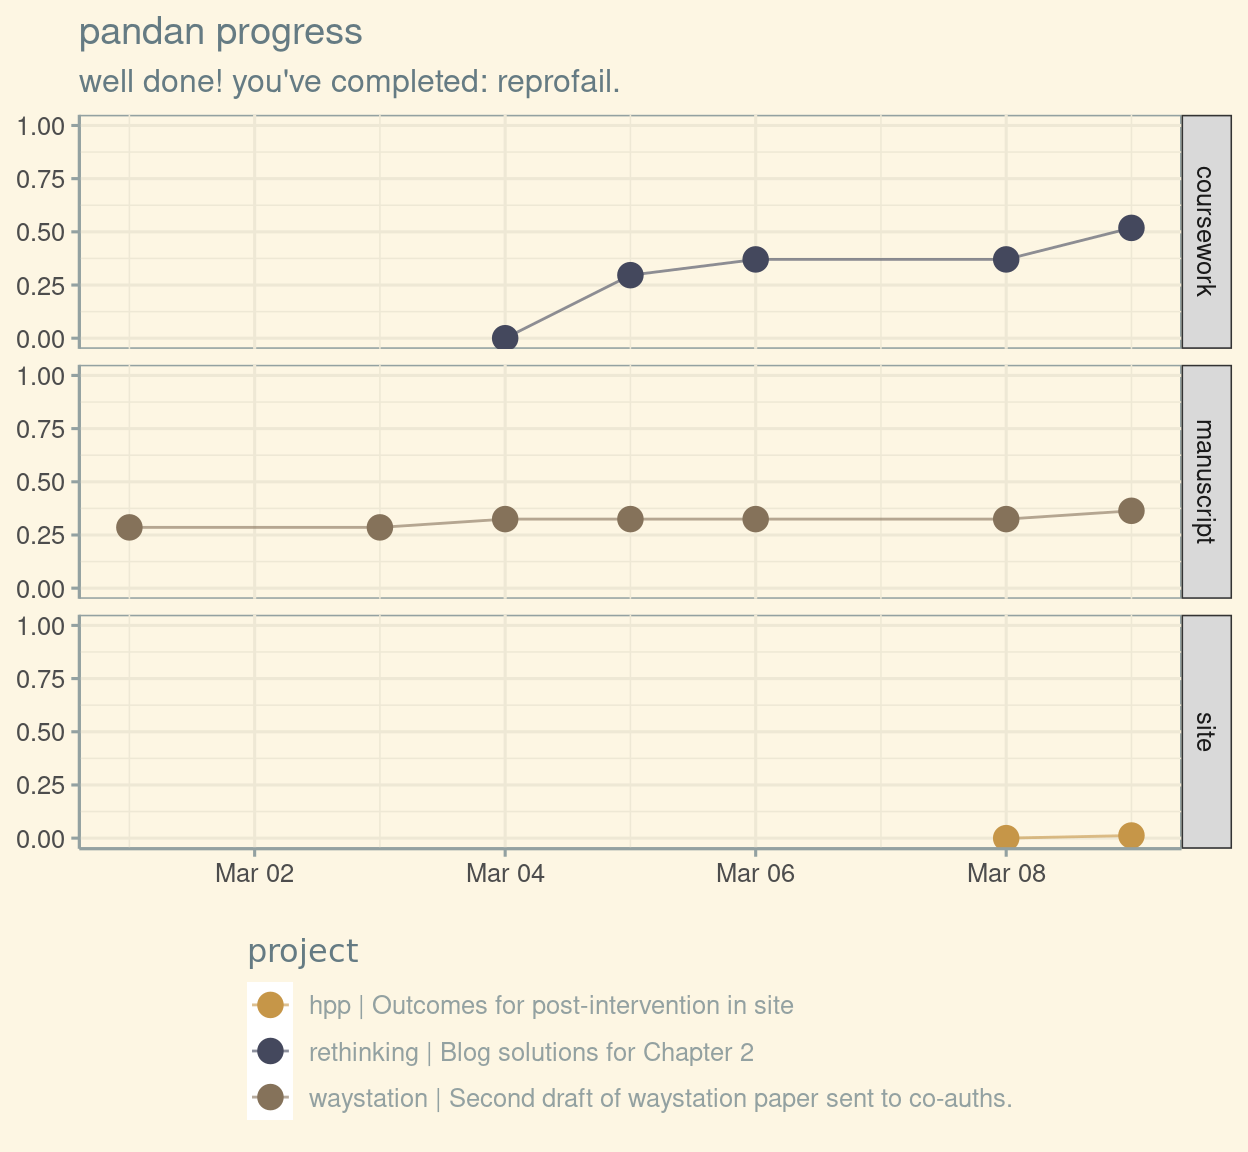
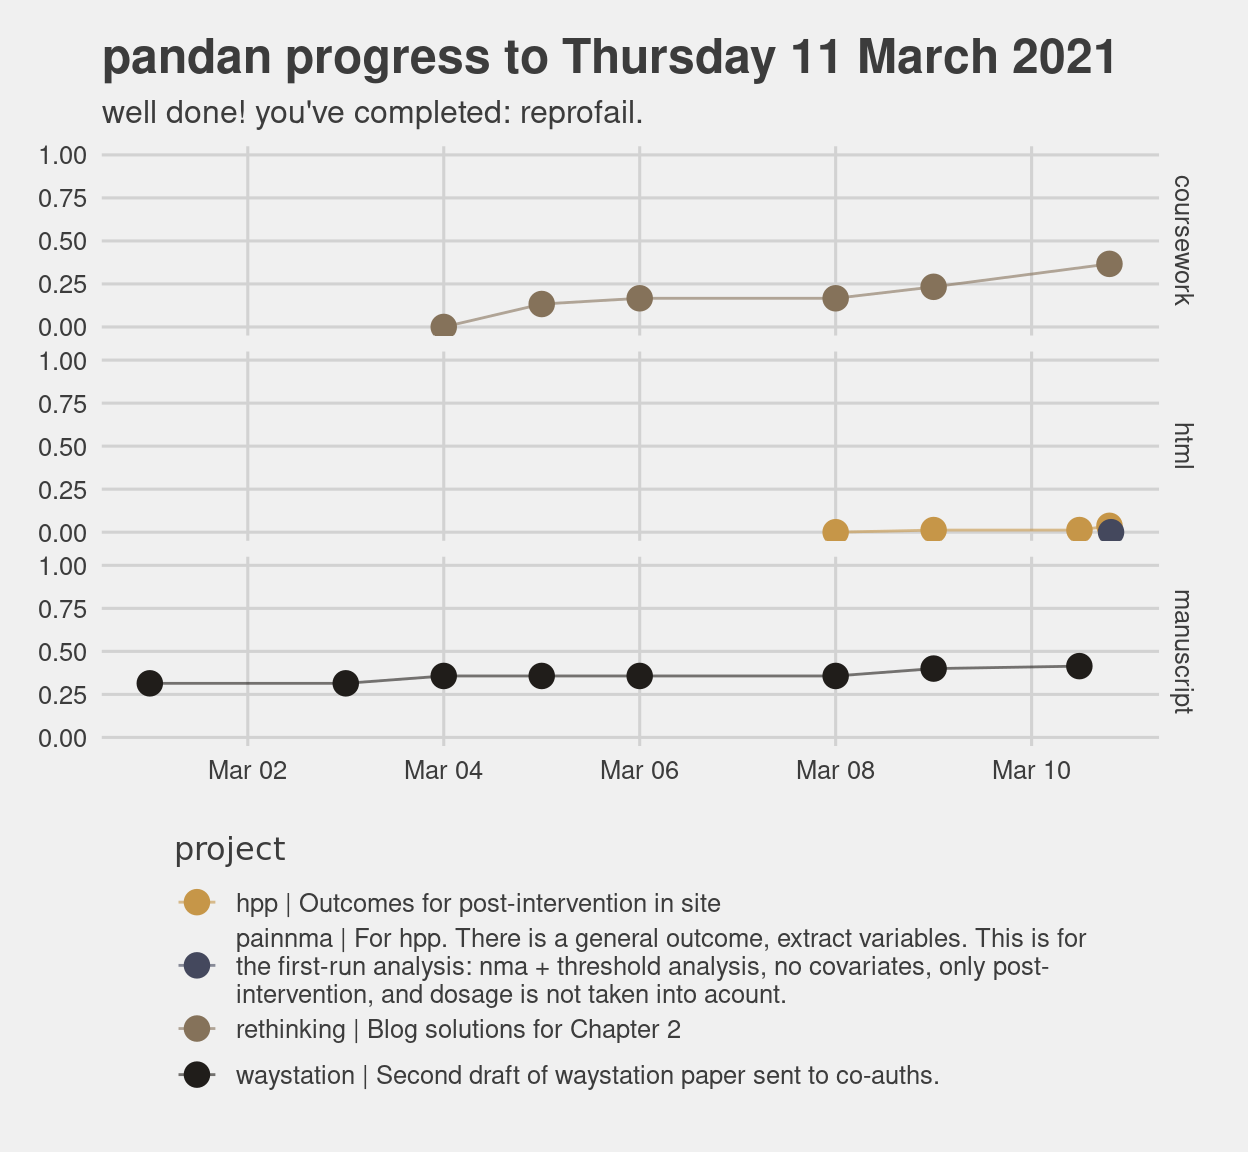
dontpanic auto update

Changed region(s): [[0.0312, 0.0, 1.0, 0.9688]]

diff --git a/docs/writeflow.html b/docs/writeflow.html
@@ -91,8 +91,8 @@ code span.wa { color: #5e5e5e; font-style: italic; } /* Warning */
 
 
   <!--  https://schema.org/Article -->
-  <meta property="article:published" itemprop="datePublished" content="2021-03-10"/>
-  <meta property="article:created" itemprop="dateCreated" content="2021-03-10"/>
+  <meta property="article:published" itemprop="datePublished" content="2021-03-11"/>
+  <meta property="article:created" itemprop="dateCreated" content="2021-03-11"/>
   <meta name="article:author" content="Charles T. Gray"/>
 
   <!--  https://developers.facebook.com/docs/sharing/webmasters#markup -->
@@ -111,7 +111,7 @@ code span.wa { color: #5e5e5e; font-style: italic; } /* Warning */
   <!--radix_placeholder_rmarkdown_metadata-->
 
   <script type="text/json" id="radix-rmarkdown-metadata">
-  {"type":"list","attributes":{"names":{"type":"character","attributes":{},"value":["title","description","author","date","output"]}},"value":[{"type":"character","attributes":{},"value":["writeflow"]},{"type":"character","attributes":{},"value":["Workflow for writing across the manuscript.\n"]},{"type":"list","attributes":{},"value":[{"type":"list","attributes":{"names":{"type":"character","attributes":{},"value":["name","url"]}},"value":[{"type":"character","attributes":{},"value":["Charles T. Gray"]},{"type":"character","attributes":{},"value":["https://softloud.github.io/onetimetrophybitch/about.html"]}]}]},{"type":"character","attributes":{},"value":["updated: 2021-03-10"]},{"type":"list","attributes":{"names":{"type":"character","attributes":{},"value":["distill::distill_article"]}},"value":[{"type":"list","attributes":{"names":{"type":"character","attributes":{},"value":["code_folding"]}},"value":[{"type":"character","attributes":{},"value":["hide"]}]}]}]}
+  {"type":"list","attributes":{"names":{"type":"character","attributes":{},"value":["title","description","author","date","output"]}},"value":[{"type":"character","attributes":{},"value":["writeflow"]},{"type":"character","attributes":{},"value":["Workflow for writing across the manuscript.\n"]},{"type":"list","attributes":{},"value":[{"type":"list","attributes":{"names":{"type":"character","attributes":{},"value":["name","url"]}},"value":[{"type":"character","attributes":{},"value":["Charles T. Gray"]},{"type":"character","attributes":{},"value":["https://softloud.github.io/onetimetrophybitch/about.html"]}]}]},{"type":"character","attributes":{},"value":["updated: 2021-03-11"]},{"type":"list","attributes":{"names":{"type":"character","attributes":{},"value":["distill::distill_article"]}},"value":[{"type":"list","attributes":{"names":{"type":"character","attributes":{},"value":["code_folding"]}},"value":[{"type":"character","attributes":{},"value":["hide"]}]}]}]}
   </script>
   <!--/radix_placeholder_rmarkdown_metadata-->
   <!--radix_placeholder_navigation_in_header-->
@@ -2036,7 +2036,7 @@ code span.wa { color: #5e5e5e; font-style: italic; } /* Warning */
   </script>
 
   <!--/radix_placeholder_distill-->
-  <script src="site_libs/header-attrs-2.6/header-attrs.js"></script>
+  <script src="site_libs/header-attrs-2.7/header-attrs.js"></script>
   <script src="site_libs/popper-2.6.0/popper.min.js"></script>
   <link href="site_libs/tippy-6.2.7/tippy.css" rel="stylesheet" />
   <link href="site_libs/tippy-6.2.7/tippy-light-border.css" rel="stylesheet" />
@@ -2056,7 +2056,7 @@ code span.wa { color: #5e5e5e; font-style: italic; } /* Warning */
 <!--radix_placeholder_front_matter-->
 
 <script id="distill-front-matter" type="text/json">
-{"title":"writeflow","description":"Workflow for writing across the manuscript.","authors":[{"author":"Charles T. Gray","authorURL":"https://softloud.github.io/onetimetrophybitch/about.html","affiliation":"&nbsp;","affiliationURL":"#","orcidID":""}],"publishedDate":"2021-03-10T00:00:00.000+00:00","citationText":"Gray, 2021"}
+{"title":"writeflow","description":"Workflow for writing across the manuscript.","authors":[{"author":"Charles T. Gray","authorURL":"https://softloud.github.io/onetimetrophybitch/about.html","affiliation":"&nbsp;","affiliationURL":"#","orcidID":""}],"publishedDate":"2021-03-11T00:00:00.000+00:00","citationText":"Gray, 2021"}
 </script>
 
 <!--/radix_placeholder_front_matter-->
@@ -2091,7 +2091,7 @@ code span.wa { color: #5e5e5e; font-style: italic; } /* Warning */
 <div class="d-byline">
   Charles T. Gray <a href="https://softloud.github.io/onetimetrophybitch/about.html" class="uri">https://softloud.github.io/onetimetrophybitch/about.html</a> 
   
-<br/>updated: 2021-03-10
+<br/>updated: 2021-03-11
 </div>
 
 <div class="d-article">

diff --git a/docs/instantiate.html b/docs/instantiate.html
@@ -91,8 +91,8 @@ code span.wa { color: #5e5e5e; font-style: italic; } /* Warning */
 
 
   <!--  https://schema.org/Article -->
-  <meta property="article:published" itemprop="datePublished" content="2021-03-10"/>
-  <meta property="article:created" itemprop="dateCreated" content="2021-03-10"/>
+  <meta property="article:published" itemprop="datePublished" content="2021-03-11"/>
+  <meta property="article:created" itemprop="dateCreated" content="2021-03-11"/>
 
   <!--  https://developers.facebook.com/docs/sharing/webmasters#markup -->
   <meta property="og:title" content="lifeswork: instantiate"/>
@@ -110,7 +110,7 @@ code span.wa { color: #5e5e5e; font-style: italic; } /* Warning */
   <!--radix_placeholder_rmarkdown_metadata-->
 
   <script type="text/json" id="radix-rmarkdown-metadata">
-  {"type":"list","attributes":{"names":{"type":"character","attributes":{},"value":["title","description","date","output"]}},"value":[{"type":"character","attributes":{},"value":["instantiate"]},{"type":"character","attributes":{},"value":["start the day\n"]},{"type":"character","attributes":{},"value":["updated 2021-03-10"]},{"type":"character","attributes":{},"value":["distill::distill_article"]}]}
+  {"type":"list","attributes":{"names":{"type":"character","attributes":{},"value":["title","description","date","output"]}},"value":[{"type":"character","attributes":{},"value":["instantiate"]},{"type":"character","attributes":{},"value":["start the day\n"]},{"type":"character","attributes":{},"value":["updated 2021-03-11"]},{"type":"character","attributes":{},"value":["distill::distill_article"]}]}
   </script>
   <!--/radix_placeholder_rmarkdown_metadata-->
   <!--radix_placeholder_navigation_in_header-->
@@ -2035,7 +2035,7 @@ code span.wa { color: #5e5e5e; font-style: italic; } /* Warning */
   </script>
 
   <!--/radix_placeholder_distill-->
-  <script src="site_libs/header-attrs-2.6/header-attrs.js"></script>
+  <script src="site_libs/header-attrs-2.7/header-attrs.js"></script>
   <script src="site_libs/kePrint-0.0.1/kePrint.js"></script>
   <link href="site_libs/lightable-0.0.1/lightable.css" rel="stylesheet" />
   <script src="site_libs/popper-2.6.0/popper.min.js"></script>
@@ -2057,7 +2057,7 @@ code span.wa { color: #5e5e5e; font-style: italic; } /* Warning */
 <!--radix_placeholder_front_matter-->
 
 <script id="distill-front-matter" type="text/json">
-{"title":"instantiate","description":"start the day","authors":[],"publishedDate":"2021-03-10T00:00:00.000+00:00"}
+{"title":"instantiate","description":"start the day","authors":[],"publishedDate":"2021-03-11T00:00:00.000+00:00"}
 </script>
 
 <!--/radix_placeholder_front_matter-->
@@ -2105,7 +2105,7 @@ code span.wa { color: #5e5e5e; font-style: italic; } /* Warning */
 <div class="layout-chunk" data-layout="l-body">
 <div class="sourceCode">
 <pre class="sourceCode r"><code class="sourceCode r"><span class='kw'><a href='https://rdrr.io/r/base/library.html'>library</a></span><span class='op'>(</span><span class='va'>pandan</span><span class='op'>)</span>
-<span class='fu'><a href='https://rdrr.io/pkg/pandan/man/pandan_view.html'>pandan_view</a></span><span class='op'>(</span><span class='op'>)</span>
+<span class='fu'><a href='https://rdrr.io/pkg/pandan/man/pandan_view.html'>pandan_view</a></span><span class='op'>(</span>distill<span class='op'>=</span><span class='cn'>TRUE</span><span class='op'>)</span>
 </code></pre>
 </div>
 <p><img src="instantiate_files/figure-html5/unnamed-chunk-1-1.png" width="624" /></p>

diff --git a/docs/dontpanic.html b/docs/dontpanic.html
@@ -90,8 +90,8 @@ code span.wa { color: #5e5e5e; font-style: italic; } /* Warning */
 
 
   <!--  https://schema.org/Article -->
-  <meta property="article:published" itemprop="datePublished" content="2021-03-10"/>
-  <meta property="article:created" itemprop="dateCreated" content="2021-03-10"/>
+  <meta property="article:published" itemprop="datePublished" content="2021-03-11"/>
+  <meta property="article:created" itemprop="dateCreated" content="2021-03-11"/>
 
   <!--  https://developers.facebook.com/docs/sharing/webmasters#markup -->
   <meta property="og:title" content="lifeswork: dontpanic"/>
@@ -107,7 +107,7 @@ code span.wa { color: #5e5e5e; font-style: italic; } /* Warning */
   <!--radix_placeholder_rmarkdown_metadata-->
 
   <script type="text/json" id="radix-rmarkdown-metadata">
-  {"type":"list","attributes":{"names":{"type":"character","attributes":{},"value":["title","date","output"]}},"value":[{"type":"character","attributes":{},"value":["dontpanic"]},{"type":"character","attributes":{},"value":["2021-03-10"]},{"type":"list","attributes":{"names":{"type":"character","attributes":{},"value":["distill::distill_article"]}},"value":[{"type":"list","attributes":{"names":{"type":"character","attributes":{},"value":["toc"]}},"value":[{"type":"logical","attributes":{},"value":[true]}]}]}]}
+  {"type":"list","attributes":{"names":{"type":"character","attributes":{},"value":["title","date","output"]}},"value":[{"type":"character","attributes":{},"value":["dontpanic"]},{"type":"character","attributes":{},"value":["2021-03-11"]},{"type":"list","attributes":{"names":{"type":"character","attributes":{},"value":["distill::distill_article"]}},"value":[{"type":"list","attributes":{"names":{"type":"character","attributes":{},"value":["toc"]}},"value":[{"type":"logical","attributes":{},"value":[true]}]}]}]}
   </script>
   <!--/radix_placeholder_rmarkdown_metadata-->
   <!--radix_placeholder_navigation_in_header-->
@@ -2032,7 +2032,7 @@ code span.wa { color: #5e5e5e; font-style: italic; } /* Warning */
   </script>
 
   <!--/radix_placeholder_distill-->
-  <script src="site_libs/header-attrs-2.6/header-attrs.js"></script>
+  <script src="site_libs/header-attrs-2.7/header-attrs.js"></script>
   <script src="site_libs/kePrint-0.0.1/kePrint.js"></script>
   <link href="site_libs/lightable-0.0.1/lightable.css" rel="stylesheet" />
   <script src="site_libs/popper-2.6.0/popper.min.js"></script>
@@ -2054,7 +2054,7 @@ code span.wa { color: #5e5e5e; font-style: italic; } /* Warning */
 <!--radix_placeholder_front_matter-->
 
 <script id="distill-front-matter" type="text/json">
-{"title":"dontpanic","authors":[],"publishedDate":"2021-03-10T00:00:00.000+00:00"}
+{"title":"dontpanic","authors":[],"publishedDate":"2021-03-11T00:00:00.000+00:00"}
 </script>
 
 <!--/radix_placeholder_front_matter-->

diff --git a/docs/tasks.html b/docs/tasks.html
@@ -90,8 +90,8 @@ code span.wa { color: #5e5e5e; font-style: italic; } /* Warning */
 
 
   <!--  https://schema.org/Article -->
-  <meta property="article:published" itemprop="datePublished" content="2021-03-10"/>
-  <meta property="article:created" itemprop="dateCreated" content="2021-03-10"/>
+  <meta property="article:published" itemprop="datePublished" content="2021-03-11"/>
+  <meta property="article:created" itemprop="dateCreated" content="2021-03-11"/>
 
   <!--  https://developers.facebook.com/docs/sharing/webmasters#markup -->
   <meta property="og:title" content="lifeswork: tasks"/>
@@ -107,7 +107,7 @@ code span.wa { color: #5e5e5e; font-style: italic; } /* Warning */
   <!--radix_placeholder_rmarkdown_metadata-->
 
   <script type="text/json" id="radix-rmarkdown-metadata">
-  {"type":"list","attributes":{"names":{"type":"character","attributes":{},"value":["title","date","output"]}},"value":[{"type":"character","attributes":{},"value":["tasks"]},{"type":"character","attributes":{},"value":["2021-03-10"]},{"type":"list","attributes":{"names":{"type":"character","attributes":{},"value":["distill::distill_article"]}},"value":[{"type":"list","attributes":{"names":{"type":"character","attributes":{},"value":["toc"]}},"value":[{"type":"logical","attributes":{},"value":[true]}]}]}]}
+  {"type":"list","attributes":{"names":{"type":"character","attributes":{},"value":["title","date","output"]}},"value":[{"type":"character","attributes":{},"value":["tasks"]},{"type":"character","attributes":{},"value":["2021-03-11"]},{"type":"list","attributes":{"names":{"type":"character","attributes":{},"value":["distill::distill_article"]}},"value":[{"type":"list","attributes":{"names":{"type":"character","attributes":{},"value":["toc"]}},"value":[{"type":"logical","attributes":{},"value":[true]}]}]}]}
   </script>
   <!--/radix_placeholder_rmarkdown_metadata-->
   <!--radix_placeholder_navigation_in_header-->
@@ -2032,7 +2032,7 @@ code span.wa { color: #5e5e5e; font-style: italic; } /* Warning */
   </script>
 
   <!--/radix_placeholder_distill-->
-  <script src="site_libs/header-attrs-2.6/header-attrs.js"></script>
+  <script src="site_libs/header-attrs-2.7/header-attrs.js"></script>
   <script src="site_libs/kePrint-0.0.1/kePrint.js"></script>
   <link href="site_libs/lightable-0.0.1/lightable.css" rel="stylesheet" />
   <script src="site_libs/popper-2.6.0/popper.min.js"></script>
@@ -2054,7 +2054,7 @@ code span.wa { color: #5e5e5e; font-style: italic; } /* Warning */
 <!--radix_placeholder_front_matter-->
 
 <script id="distill-front-matter" type="text/json">
-{"title":"tasks","authors":[],"publishedDate":"2021-03-10T00:00:00.000+00:00"}
+{"title":"tasks","authors":[],"publishedDate":"2021-03-11T00:00:00.000+00:00"}
 </script>
 
 <!--/radix_placeholder_front_matter-->

diff --git a/docs/review.html b/docs/review.html
@@ -91,8 +91,8 @@ code span.wa { color: #5e5e5e; font-style: italic; } /* Warning */
 
 
   <!--  https://schema.org/Article -->
-  <meta property="article:published" itemprop="datePublished" content="2021-03-10"/>
-  <meta property="article:created" itemprop="dateCreated" content="2021-03-10"/>
+  <meta property="article:published" itemprop="datePublished" content="2021-03-11"/>
+  <meta property="article:created" itemprop="dateCreated" content="2021-03-11"/>
 
   <!--  https://developers.facebook.com/docs/sharing/webmasters#markup -->
   <meta property="og:title" content="lifeswork: review"/>
@@ -110,7 +110,7 @@ code span.wa { color: #5e5e5e; font-style: italic; } /* Warning */
   <!--radix_placeholder_rmarkdown_metadata-->
 
   <script type="text/json" id="radix-rmarkdown-metadata">
-  {"type":"list","attributes":{"names":{"type":"character","attributes":{},"value":["title","description","date","output"]}},"value":[{"type":"character","attributes":{},"value":["review"]},{"type":"character","attributes":{},"value":["end of task cycle\n"]},{"type":"character","attributes":{},"value":["2021-03-10"]},{"type":"character","attributes":{},"value":["distill::distill_article"]}]}
+  {"type":"list","attributes":{"names":{"type":"character","attributes":{},"value":["title","description","date","output"]}},"value":[{"type":"character","attributes":{},"value":["review"]},{"type":"character","attributes":{},"value":["end of task cycle\n"]},{"type":"character","attributes":{},"value":["2021-03-11"]},{"type":"character","attributes":{},"value":["distill::distill_article"]}]}
   </script>
   <!--/radix_placeholder_rmarkdown_metadata-->
   <!--radix_placeholder_navigation_in_header-->
@@ -2035,7 +2035,7 @@ code span.wa { color: #5e5e5e; font-style: italic; } /* Warning */
   </script>
 
   <!--/radix_placeholder_distill-->
-  <script src="site_libs/header-attrs-2.6/header-attrs.js"></script>
+  <script src="site_libs/header-attrs-2.7/header-attrs.js"></script>
   <script src="site_libs/kePrint-0.0.1/kePrint.js"></script>
   <link href="site_libs/lightable-0.0.1/lightable.css" rel="stylesheet" />
   <script src="site_libs/popper-2.6.0/popper.min.js"></script>
@@ -2057,7 +2057,7 @@ code span.wa { color: #5e5e5e; font-style: italic; } /* Warning */
 <!--radix_placeholder_front_matter-->
 
 <script id="distill-front-matter" type="text/json">
-{"title":"review","description":"end of task cycle","authors":[],"publishedDate":"2021-03-10T00:00:00.000+00:00"}
+{"title":"review","description":"end of task cycle","authors":[],"publishedDate":"2021-03-11T00:00:00.000+00:00"}
 </script>
 
 <!--/radix_placeholder_front_matter-->

diff --git a/docs/about.html b/docs/about.html
@@ -2032,7 +2032,7 @@ code span.wa { color: #5e5e5e; font-style: italic; } /* Warning */
   </script>
 
   <!--/radix_placeholder_distill-->
-  <script src="site_libs/header-attrs-2.6/header-attrs.js"></script>
+  <script src="site_libs/header-attrs-2.7/header-attrs.js"></script>
   <script src="site_libs/popper-2.6.0/popper.min.js"></script>
   <link href="site_libs/tippy-6.2.7/tippy.css" rel="stylesheet" />
   <link href="site_libs/tippy-6.2.7/tippy-light-border.css" rel="stylesheet" />

diff --git a/docs/index.html b/docs/index.html
@@ -2032,7 +2032,7 @@ code span.wa { color: #5e5e5e; font-style: italic; } /* Warning */
   </script>
 
   <!--/radix_placeholder_distill-->
-  <script src="site_libs/header-attrs-2.6/header-attrs.js"></script>
+  <script src="site_libs/header-attrs-2.7/header-attrs.js"></script>
   <script src="site_libs/popper-2.6.0/popper.min.js"></script>
   <link href="site_libs/tippy-6.2.7/tippy.css" rel="stylesheet" />
   <link href="site_libs/tippy-6.2.7/tippy-light-border.css" rel="stylesheet" />
